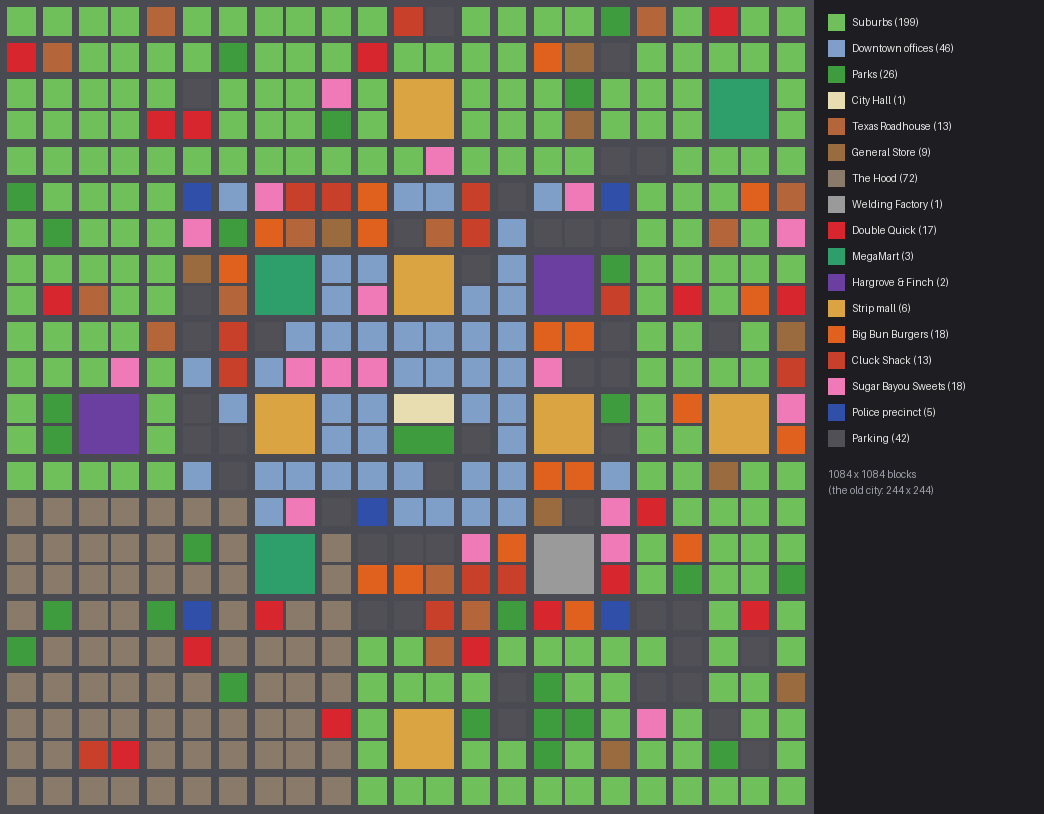
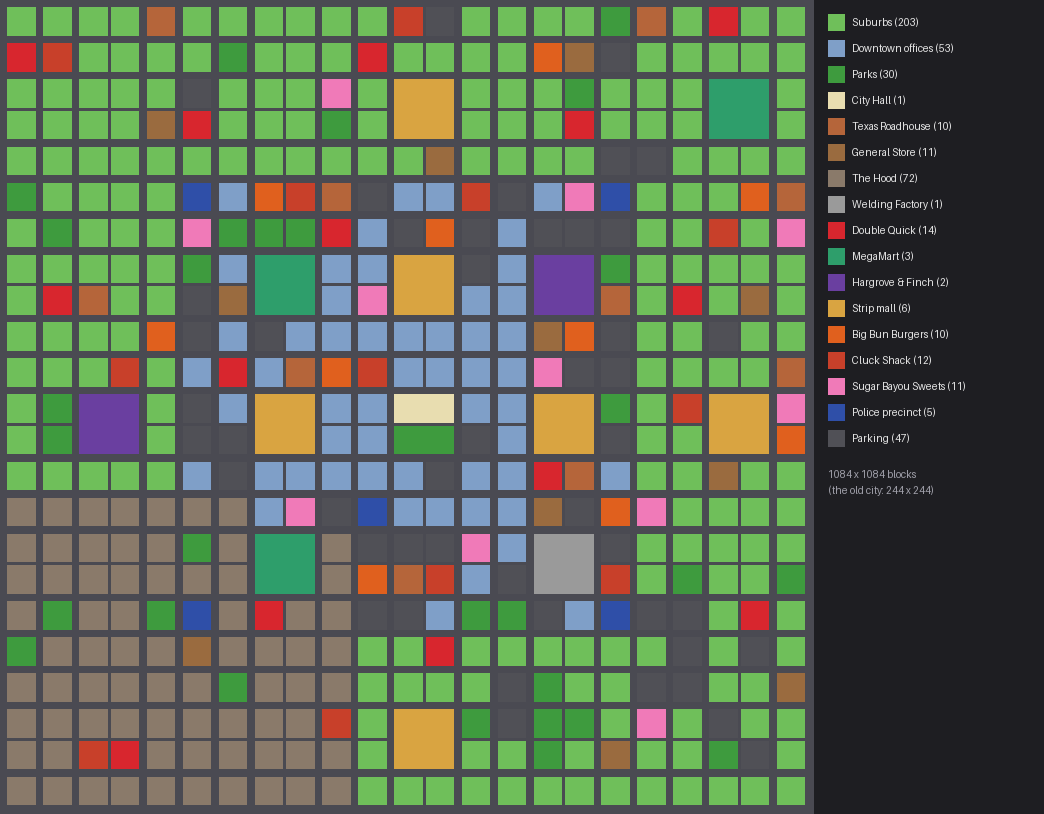
Repair holes in chunks with up to two hours of play; README
Claude-Session: https://claude.ai/code/session_01FE7CPrV1CQMr7ZsyWTFUi4

diff --git a/src/main/java/dev/freerun/city/CityWorld.java b/src/main/java/dev/freerun/city/CityWorld.java
@@ -559,7 +559,7 @@ public final class CityWorld {
      */
     private static boolean needsRepair(ServerLevel level, BlockPos city, ChunkPos cp) {
         var chunk = level.getChunkSource().getChunkNow(cp.x, cp.z);
-        if (chunk == null || chunk.getInhabitedTime() > 20 * 60 * 30) return false;
+        if (chunk == null || chunk.getInhabitedTime() > 20 * 60 * 120) return false;
         if (unbuiltColumns(level, city, cp) < 4) return false;
         int[][] around = {{1, 0}, {-1, 0}, {0, 1}, {0, -1}};
         for (int[] a : around) {

diff --git a/README.md b/README.md
@@ -88,8 +88,9 @@ Cities are now about **20 times bigger: 1,084 × 1,084 blocks**, an 18 × 18 gri
 (the old one was 244 × 244). Most 2,048-block regions of the overworld get one (and there's
 almost always one within a couple of kilometres of spawn), on reasonably dry, reasonably flat land; hills are cut down, hollows and rivers filled in, and the edges sloped
 off. Type **`/findcity`** to get the nearest one's location and direction, or **`/city`** (needs
-cheats) to found one centred on you. A city that size is built chunk by chunk as you explore
-(the part around you goes up within seconds).
+cheats) to found one centred on you, at the height of the ground around you. A city that size is
+built chunk by chunk as you explore (the part around you goes up within seconds). If a chunk of
+a city ever comes out missing, it's filled in automatically the next time it loads.
 
 ![City layout](docs/city_layout.png)
 
@@ -97,7 +98,8 @@ cheats) to found one centred on you. A city that size is built chunk by chunk as
 - **The commercial ring:** two **MegaMart Supercenters**, two **Hargrove & Finch** department
   stores, six strip malls, and plenty of **Big Bun Burgers**, **Cluck Shacks**, **Sugar Bayou
   Sweets**, Double Quicks, General Stores and Texas Roadhouses, with **parking lots** joined up by
-  paved service lanes so you can drive from one lot to the next.
+  paved service lanes so you can drive from one lot to the next. Stores are spread out: you won't
+  find two of the same restaurant or shop within about 230 blocks of each other.
 - **The Hood** (south-west), with apartments, corner stores, community gardens, basketball courts
   and the odd vacant lot that's Rust Rat / Chrome King turf.
 - **The welding factory** (south-east), ringed by parking.
